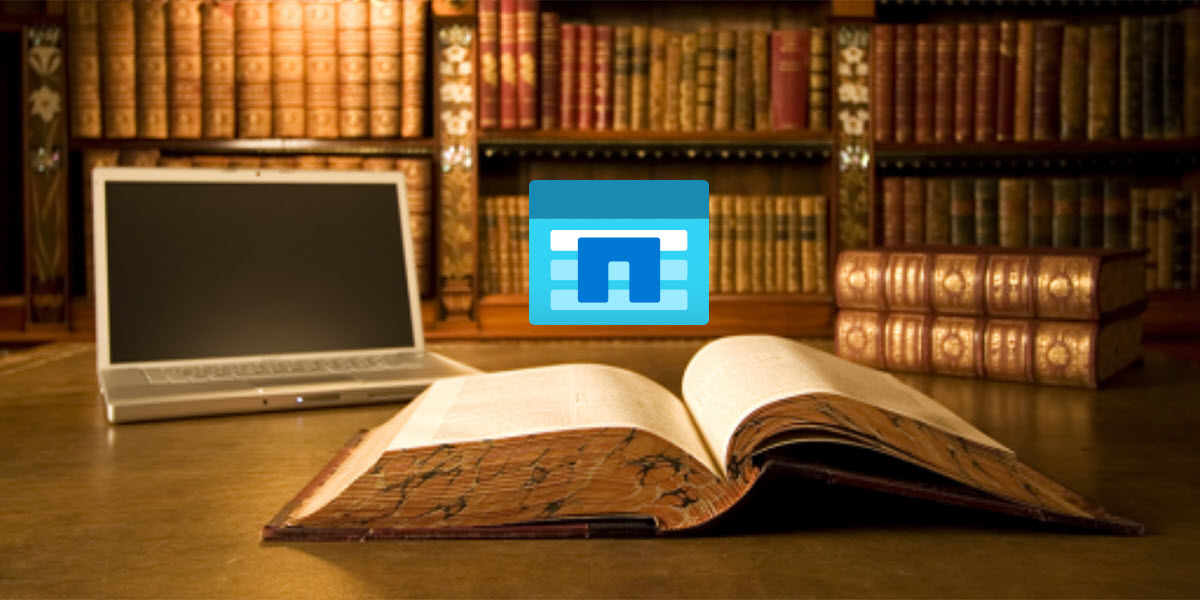
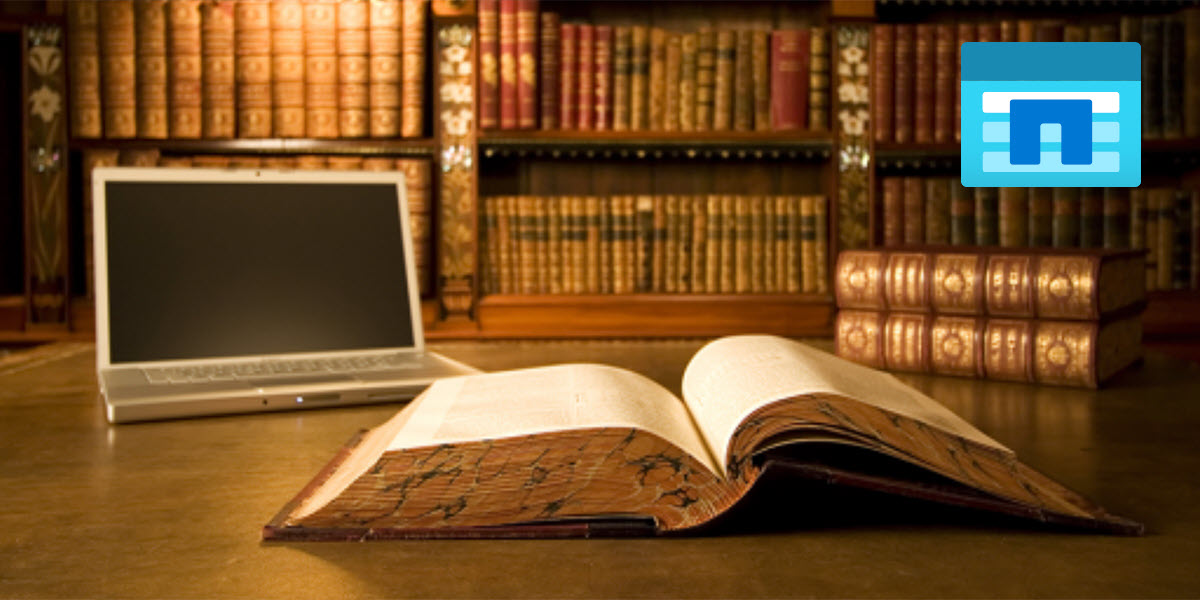
Updated

Changed region(s): [[0.4317, 0.3, 0.6167, 0.54], [0.8017, 0.06, 0.9558, 0.33]]

diff --git a/_posts/2024-09-01-anf-learning.md b/_posts/2024-09-01-anf-learning.md
@@ -1,10 +1,10 @@
 ---
 layout: post
-date: 2024-07-31 14:00
+date: 2024-09-01 14:00
 title: Microsoft Learn Modules for Azure NetApp Files
 subtitle: Get up to speed with ANF on Microsoft Learn
 cover-img: /assets/img/anf-learn-2.jpg
-thumbnail-img: /assets/img/anf-announcement.png
+thumbnail-img: /assets/img/learn.png
 share-img: /assets/img/anf-announcement.png
 tags: [Blog, Azure, Azure NetApp Files]
 author: Anthony Mashford
